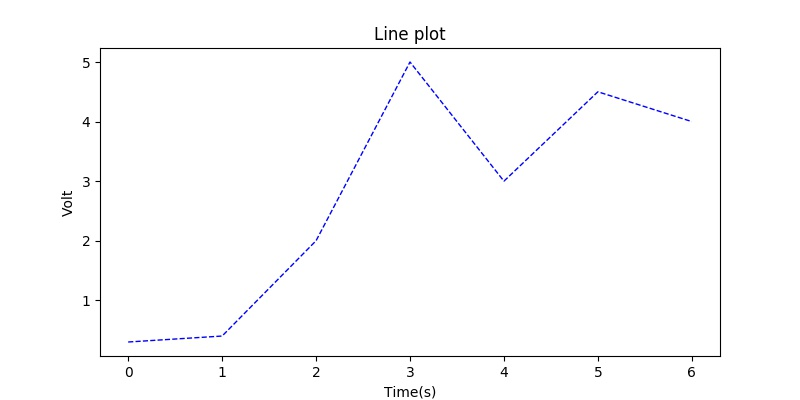
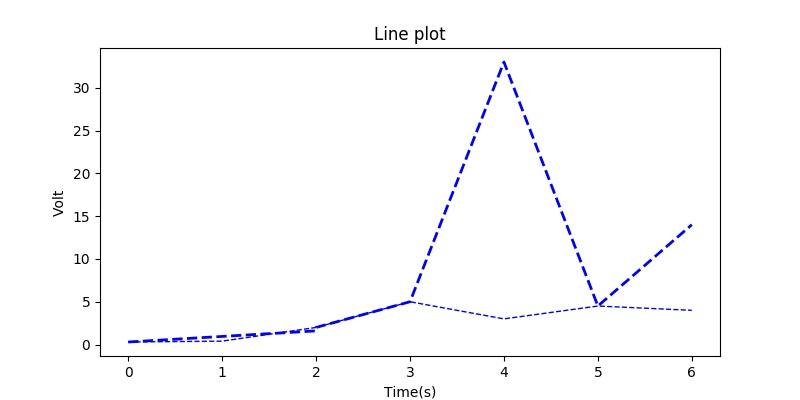
update

diff --git a/drawline/drawing4.py b/drawline/drawing4.py
@@ -4,8 +4,11 @@ import matplotlib.pyplot as plt
 #X轴，Y轴数据
 x = [0,1,2,3,4,5,6]
 y = [0.3,0.4,2,5,3,4.5,4]
+x1 = [0,2,2,3,4,5,6]
+y1 = [0.3,1.6,2,5,33,4.5,14]
 plt.figure(figsize=(8,4)) #创建绘图对象
 plt.plot(x,y,"b--",linewidth=1)   #在当前绘图对象绘图（X轴，Y轴，蓝色虚线，线宽度）
+plt.plot(x1,y1,"b--",linewidth=2)   #在当前绘图对象绘图（X轴，Y轴，蓝色虚线，线宽度）
 plt.xlabel("Time(s)") #X轴标签
 plt.ylabel("Volt")  #Y轴标签
 plt.title("Line plot") #图标题
